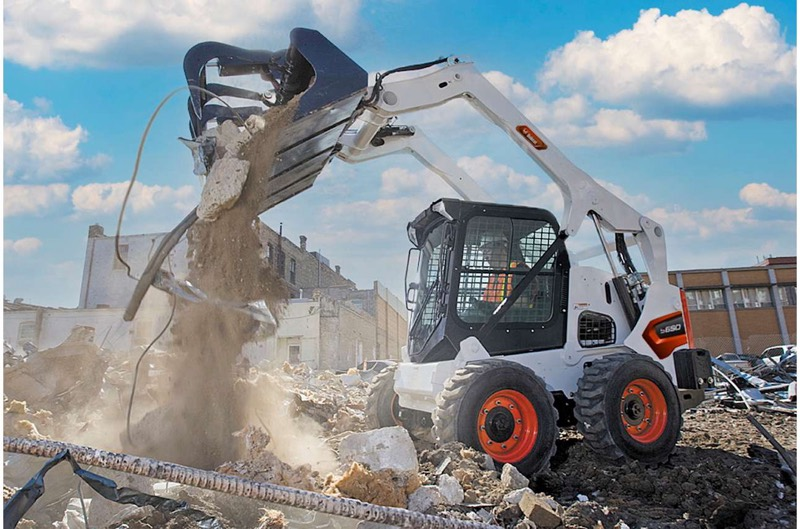
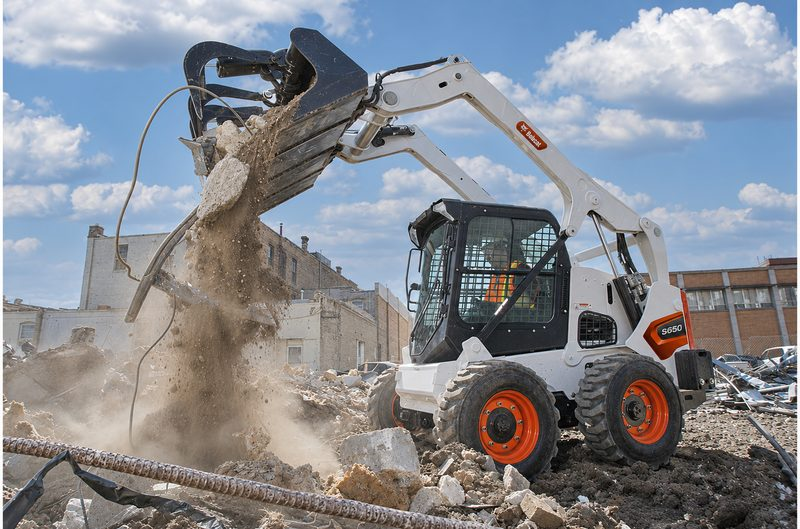
feat(rental): fotos de máquinas mejoradas, optimizadas para web
Ocho fotos nuevas con los mismos nombres: principal hasta 1600 px y bajo ~250 KB,
y versión de 800 px para celular en todas. Genie se sirve en JPG por srcset; el .png
de la base queda como respaldo. Sin masters en el repo.

diff --git a/apps/rental/src/components/Foto.tsx b/apps/rental/src/components/Foto.tsx
@@ -1,15 +1,20 @@
 import type { Maquina } from '@/lib/maquinas';
 
-const CON_VARIANTE = /^\/images\/maquinarias\/(retroexcavadora-hmk-102b|minicargador-bobcat-s650|camion-tolva-vw-constellation|plataforma-fullen-psc140|plataforma-genie-gs1930)\.(jpg|png)$/;
-const ANCHO: Record<string, number> = { 'retroexcavadora-hmk-102b': 1600, 'minicargador-bobcat-s650': 1290, 'camion-tolva-vw-constellation': 1280, 'plataforma-fullen-psc140': 900, 'plataforma-genie-gs1930': 720 };
+const CON_VARIANTE = /^\/images\/maquinarias\/(retroexcavadora-hmk-102b|minicargador-bobcat-s650|minicargador-bobcat-s570|camion-tolva-vw-constellation|plataforma-fullen-psc140|plataforma-genie-gs1930|brazo-articulado-jlg-e450aj|miniexcavadora-xcmg-xe35u)\.(jpg|png)$/;
+const ANCHO: Record<string, number> = {
+  'retroexcavadora-hmk-102b': 1600, 'minicargador-bobcat-s650': 1600, 'minicargador-bobcat-s570': 1200,
+  'camion-tolva-vw-constellation': 1600, 'plataforma-fullen-psc140': 1600, 'plataforma-genie-gs1930': 1440,
+  'brazo-articulado-jlg-e450aj': 1110, 'miniexcavadora-xcmg-xe35u': 1228,
+};
 
-/** El celular baja la versión de 800 px cuando existe. */
+/** El celular baja la versión de 800 px. La foto grande siempre se sirve en JPG
+ *  (la de Genie queda guardada como .png en la base, por eso se cambia aquí). */
 export function variantes(src: string, sizes: string): { srcSet?: string; sizes?: string } {
   const m = src.match(CON_VARIANTE);
   if (!m) return {};
   const chica = src.replace(/\.(jpg|png)$/, '-800.jpg');
-  const ancho = ANCHO[m[1]];
-  return { srcSet: ancho <= 800 ? `${chica} ${ancho}w` : `${chica} 800w, ${src} ${ancho}w`, sizes };
+  const grande = src.replace(/\.png$/, '.jpg');
+  return { srcSet: `${chica} 800w, ${grande} ${ANCHO[m[1]]}w`, sizes };
 }
 
 /** Foto de máquina. "Imagen referencial" va sobre la foto cuando no es de nuestra flota. */
